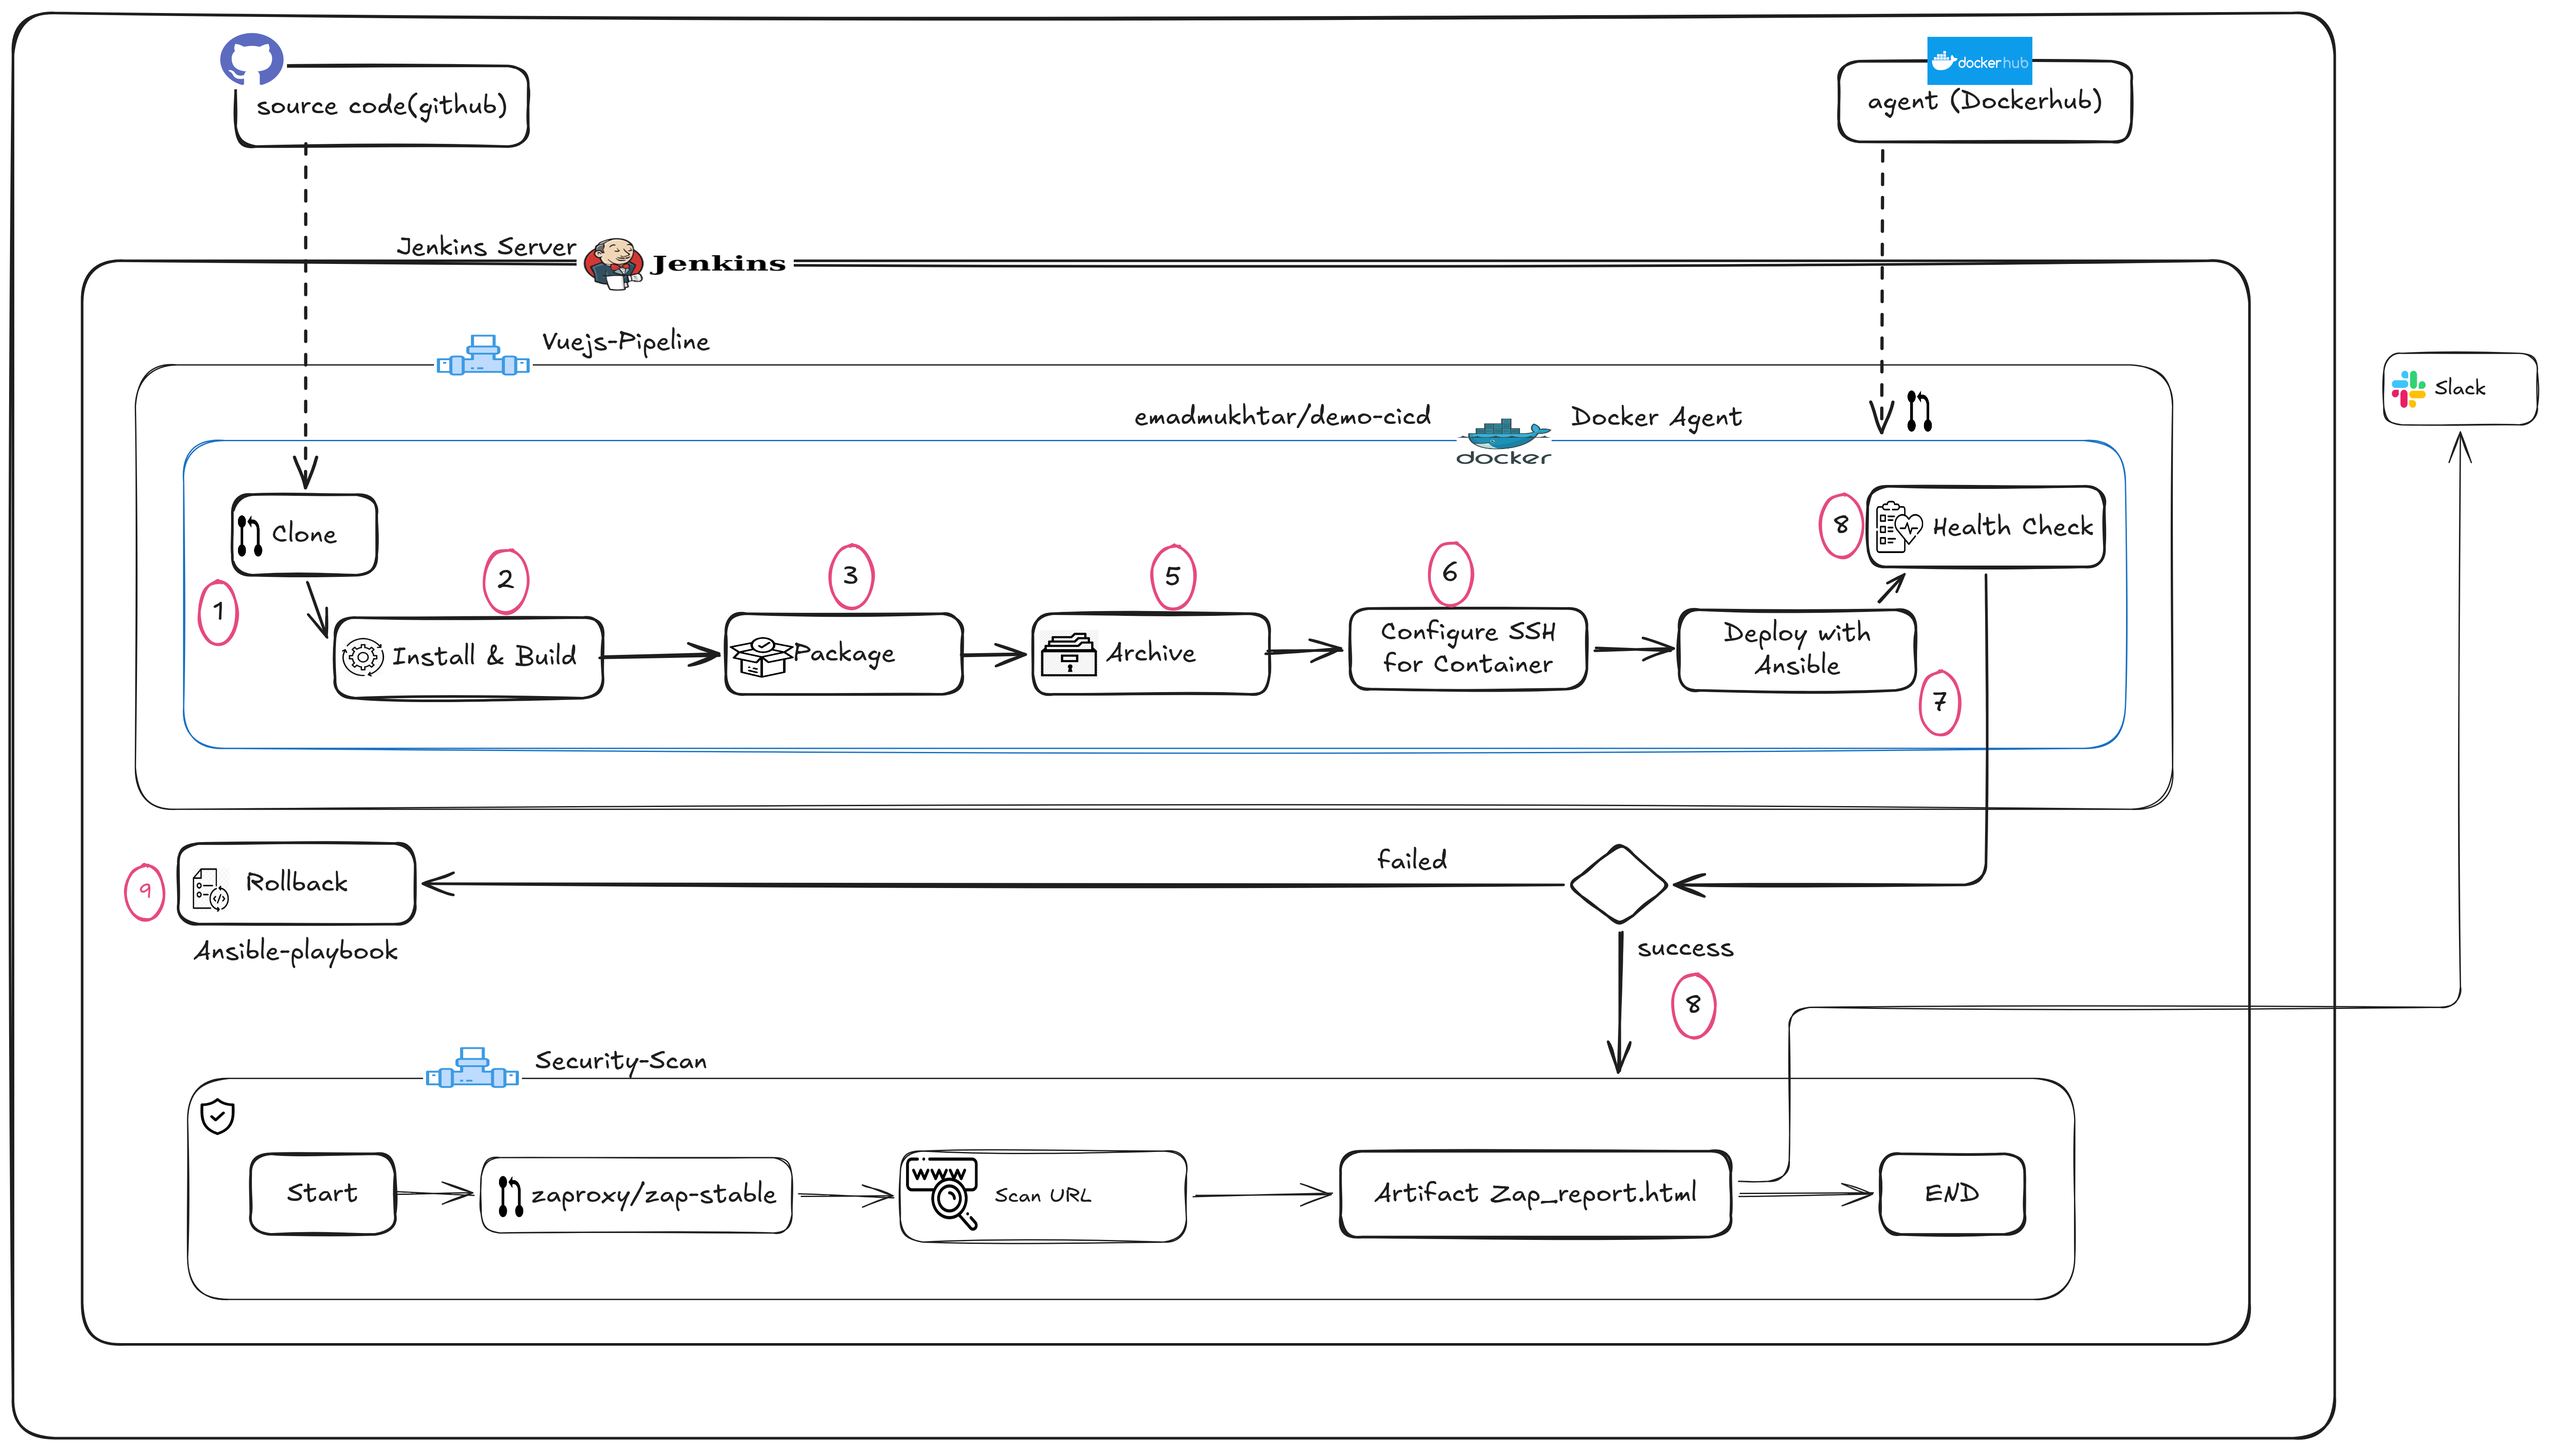
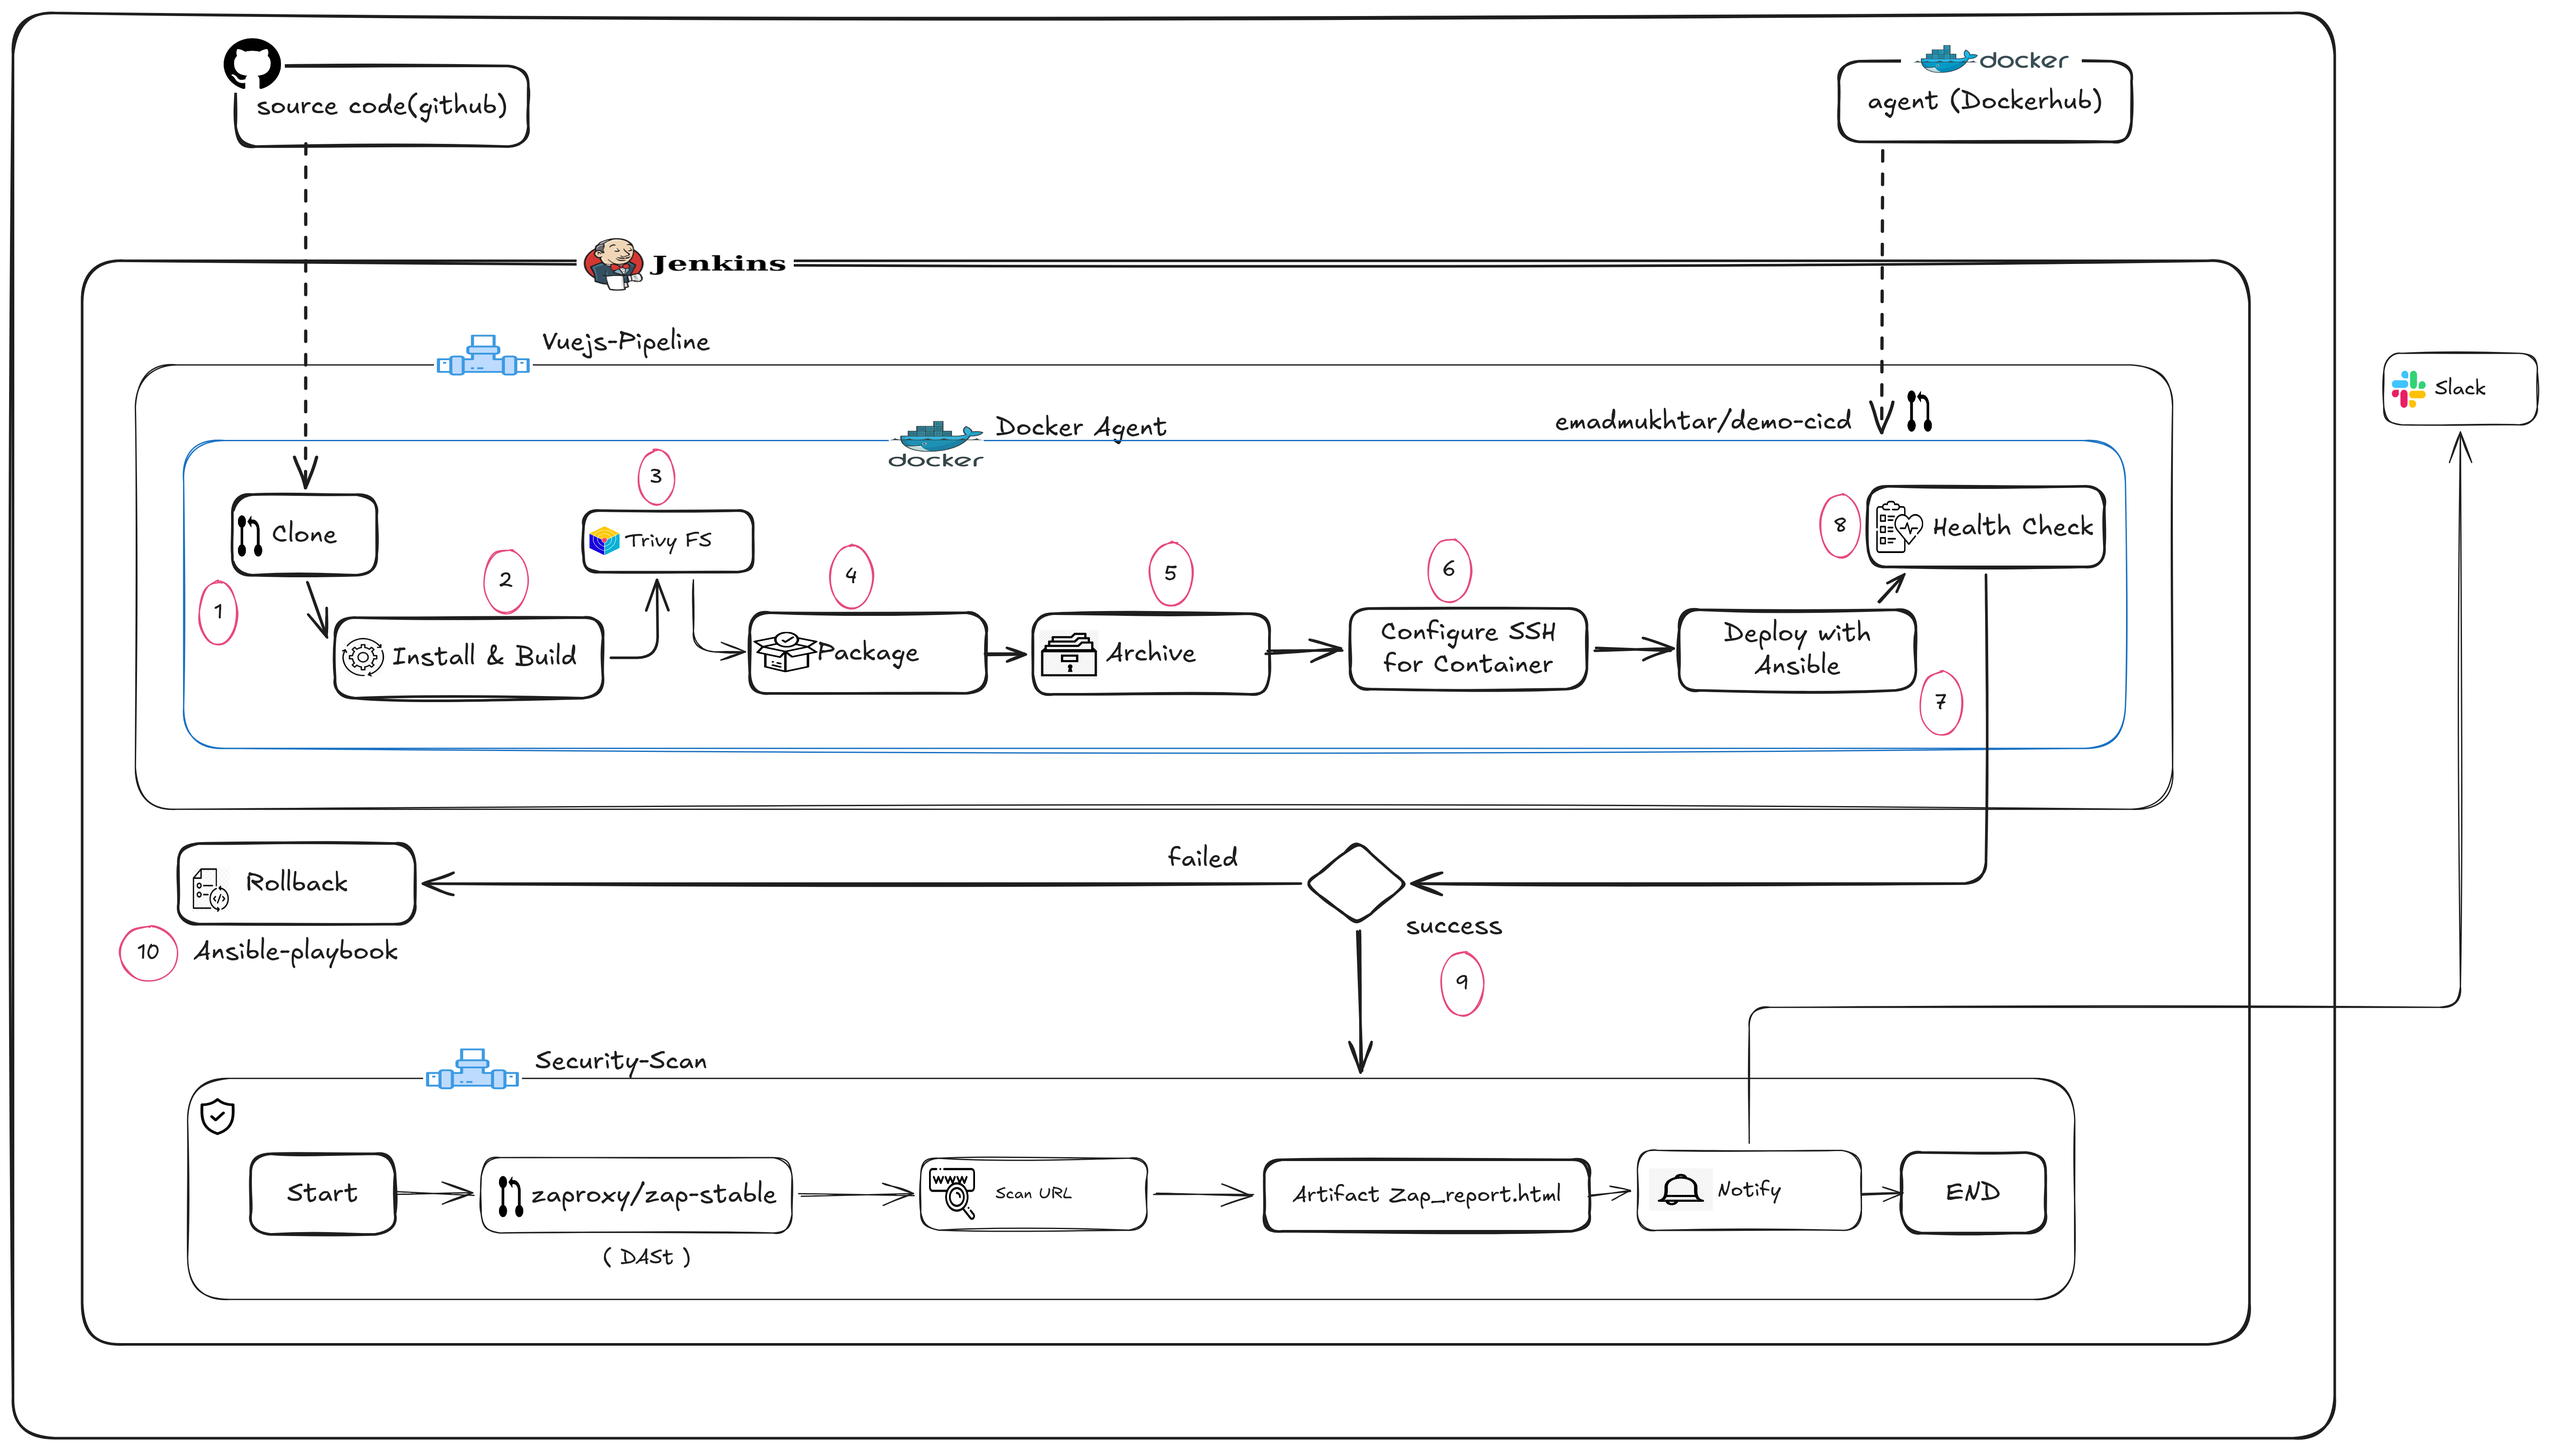
change(optimize): optimize perofmrance of the pipeline add(trivy): add trivy check filesystem stage change(docker): remove depned on demo-cicd-vue to node:22 and use agent per stage

diff --git a/README.md b/README.md
@@ -84,7 +84,3 @@ JENKINS-PROJECT/
   - Uploads
   - Logs
 - Configure release cleanup policy (e.g., keep last 5 releases).
-- Move all pipeline variables to Jenkins Environment Variables.
-- Optimize pipeline performance.
-  - Use npm ci instead of npm install
-- Integrate Trivy or other scanners for Docker image security.
